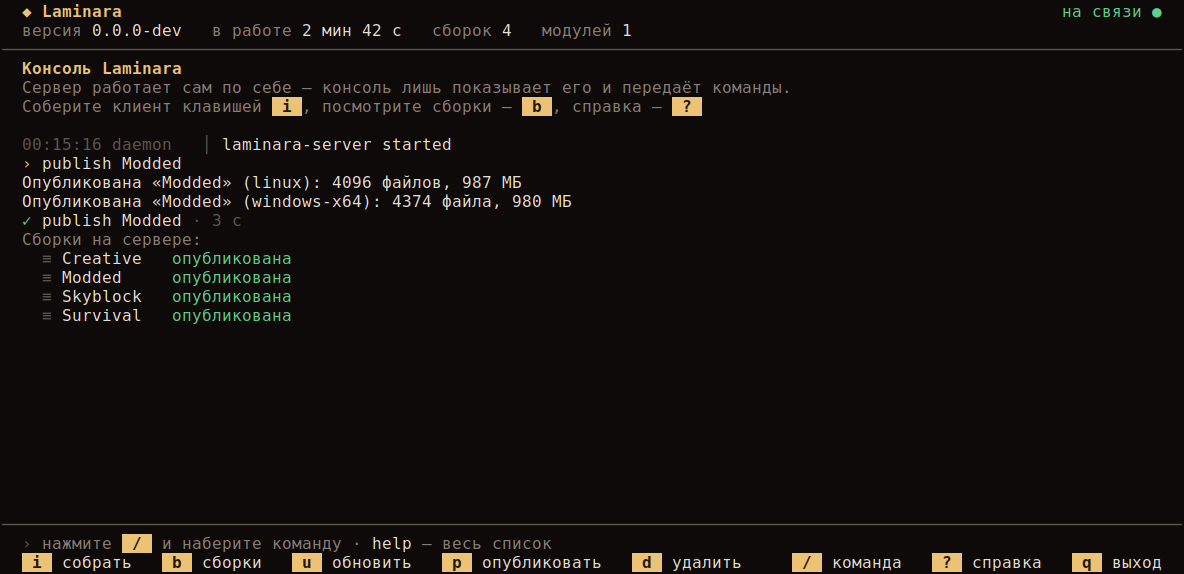
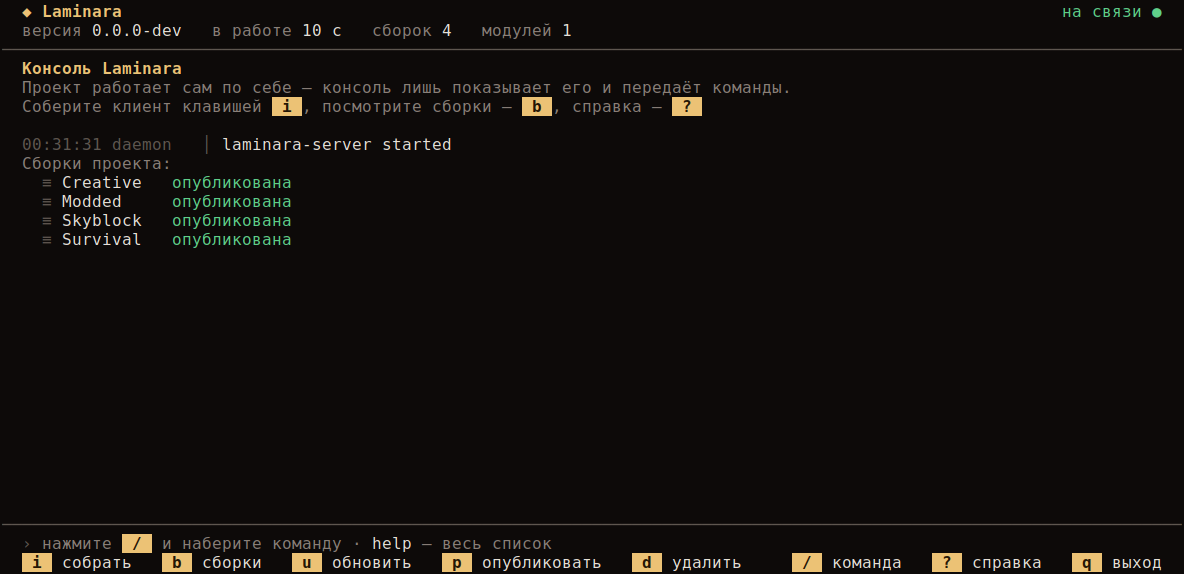
Называть в консоли проект проектом

Changed region(s): [[0.0, 0.2369, 0.5, 0.5627], [0.25, 0.0296, 0.5312, 0.0889], [0.0, 0.1481, 0.0625, 0.1777]]

diff --git a/server/internal/tui/tui.go b/server/internal/tui/tui.go
@@ -101,7 +101,7 @@ func Run(ctx context.Context, client adminv1connect.AdminServiceClient, nerd boo
 	go streamLogs(ctx, client, logCh, st)
 
 	input := textinput.New()
-	input.Placeholder = "команда сервера — help покажет список"
+	input.Placeholder = "команда проекта — help покажет список"
 	input.Prompt = "› "
 	input.CharLimit = 512
 
@@ -126,7 +126,7 @@ func (m Model) Init() tea.Cmd {
 
 func (m *Model) greet() {
 	m.appendLog(m.styles.selected.Render("Консоль Laminara"))
-	m.appendLog(m.styles.dim.Render("Сервер работает сам по себе — консоль лишь показывает его и передаёт команды."))
+	m.appendLog(m.styles.dim.Render("Проект работает сам по себе — консоль лишь показывает его и передаёт команды."))
 	m.appendLog(m.styles.dim.Render("Соберите клиент клавишей ") + m.styles.key.Render("i") + m.styles.dim.Render(", посмотрите сборки — ") + m.styles.key.Render("b") + m.styles.dim.Render(", справка — ") + m.styles.key.Render("?"))
 	m.appendLog("")
 }
@@ -359,7 +359,7 @@ func (m Model) onBuilds(msg buildsMsg) (tea.Model, tea.Cmd) {
 		for _, build := range msg.builds {
 			width = max(width, lipgloss.Width(build.Name))
 		}
-		m.appendLog(m.styles.dim.Render("Сборки на сервере:"))
+		m.appendLog(m.styles.dim.Render("Сборки проекта:"))
 		for _, build := range msg.builds {
 			name := m.styles.keyLabel.Render(build.Name + strings.Repeat(" ", width-lipgloss.Width(build.Name)))
 			m.appendLog("  " + m.styles.faint.Render(m.icons.builds) + " " + name + "   " + statusLabel(build.Status, m.styles))
@@ -469,7 +469,7 @@ func (m Model) headerView() string {
 
 func (m Model) summaryView() string {
 	if m.status.version == "" {
-		return m.styles.summary.Render("собираю сведения о сервере…")
+		return m.styles.summary.Render("собираю сведения о проекте…")
 	}
 	field := func(label, value string) string {
 		return m.styles.dim.Render(label+" ") + m.styles.summaryKey.Render(value)
@@ -493,11 +493,11 @@ func (m Model) helpView() string {
 		line("b", "показать сборки и их состояние"),
 		line("u", "пересобрать сборку под новую версию"),
 		line("p", "опубликовать сборку — лаунчеры увидят обновление"),
-		line("d", "удалить сборку с сервера"),
+		line("d", "удалить сборку из проекта"),
 		line("/", "ввести команду вручную — Tab дополняет, ↑↓ повторяют прошлые"),
 		line("↑↓", "прокрутить ленту логов"),
 		line("?", "эта справка"),
-		line("q", "выйти из консоли (сервер продолжит работать)"),
+		line("q", "выйти из консоли — проект продолжит работать"),
 		"",
 		m.styles.selected.Render("Команды"),
 		m.styles.dim.Render("help — весь список; status, builds, versions, loaders,"),
@@ -510,7 +510,7 @@ func (m Model) helpView() string {
 
 func (m Model) emptyHint() string {
 	lines := []string{
-		m.styles.dim.Render("Логи сервера появятся здесь."),
+		m.styles.dim.Render("Здесь пойдут события проекта."),
 		"",
 		m.styles.keyLabel.Render("Начните с ") + m.styles.key.Render("i") + m.styles.keyLabel.Render(" — консоль соберёт клиент и проведёт по шагам,"),
 		m.styles.keyLabel.Render("или нажмите ") + m.styles.key.Render("?") + m.styles.keyLabel.Render(" — короткая справка."),

diff --git a/server/internal/buildsvc/buildsvc.go b/server/internal/buildsvc/buildsvc.go
@@ -67,7 +67,7 @@ func (s *Service) Commands() []command.Command {
 		{Name: "loaders", Synopsis: "загрузчики модов для версии (loaders <версия>)", Run: s.loaders},
 		{Name: "install", Aliases: []string{"prepare"}, Synopsis: "собрать клиент (install <имя> <версия> [loader=..] [loaderVersion=..] [platform=..] [java=..])", Run: s.prepare},
 		{Name: "publish", Aliases: []string{"release"}, Synopsis: "опубликовать сборку — лаунчеры увидят её (publish <имя>)", Run: s.publish},
-		{Name: "builds", Aliases: []string{"clients"}, Synopsis: "сборки на сервере и их состояние", Run: s.builds},
+		{Name: "builds", Aliases: []string{"clients"}, Synopsis: "сборки проекта и их состояние", Run: s.builds},
 		{Name: "delete", Aliases: []string{"deletebuild", "remove"}, Synopsis: "удалить сборку (delete <имя>)", Run: s.delete},
 	}
 }

diff --git a/server/internal/daemon/daemon.go b/server/internal/daemon/daemon.go
@@ -251,7 +251,7 @@ func (d *Daemon) dispatchLines(ctx context.Context, input io.Reader) {
 func (d *Daemon) statusCommand() command.Command {
 	return command.Command{
 		Name:     "status",
-		Synopsis: "состояние сервера",
+		Synopsis: "состояние проекта",
 		Run: func(_ context.Context, _ []string, out io.Writer) error {
 			s := d.status()
 			fmt.Fprintf(out, "версия:   %s\n", s.Version)
@@ -266,7 +266,7 @@ func (d *Daemon) statusCommand() command.Command {
 func (d *Daemon) versionCommand() command.Command {
 	return command.Command{
 		Name:     "version",
-		Synopsis: "версия сервера",
+		Synopsis: "версия проекта",
 		Run: func(_ context.Context, _ []string, out io.Writer) error {
 			fmt.Fprintln(out, version.Current)
 			return nil

diff --git a/server/internal/tui/wizard.go b/server/internal/tui/wizard.go
@@ -157,7 +157,7 @@ func (w wizard) buildCommand() string {
 
 func (w wizard) View() string {
 	if w.loading {
-		return w.styles.wizardBox.Render(w.styles.dim.Render("Спрашиваю сервер…"))
+		return w.styles.wizardBox.Render(w.styles.dim.Render("Спрашиваю проект…"))
 	}
 	if w.step == wzName {
 		summary := w.mc
